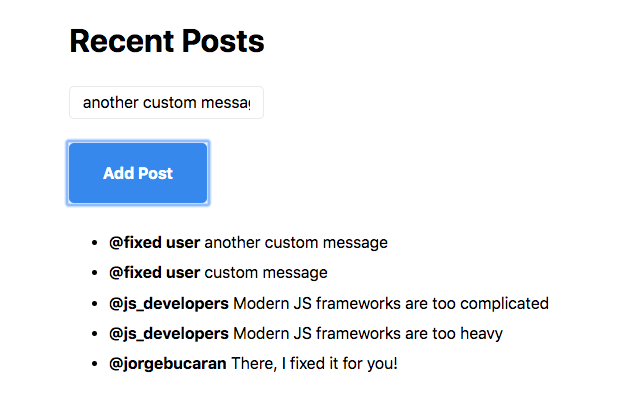
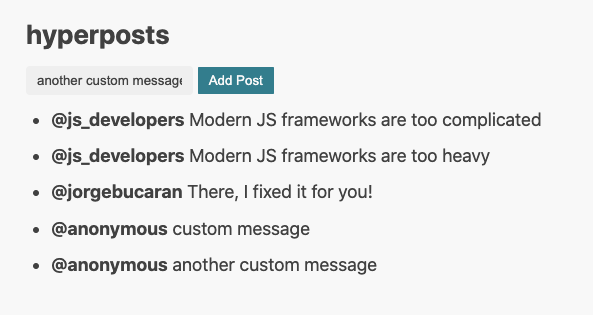
ch5 updated

diff --git a/manuscript/ch5.md b/manuscript/ch5.md
@@ -6,10 +6,12 @@
 
 Add an input field to change the text:
 ```js
-<h1>Recent Posts</h1>
+<h4>hyperposts</h4>
 <input type="text" autofocus />
+${" "}
 <button onclick=${AddPost}>Add Post</button>
 ```
+We added a whitespace between the input and the button to make the UI nicer.
 
 When you start typing text into the input, your state and view will get out of sync. What you're typing is not
 reflected in the state object.
@@ -59,14 +61,14 @@ As mentioned before, it's all about transferable skills.
 
 The following figure shows the updated conceptual model of Hyperapp actions with the extra event attribute:
 
-![Figure: Action is a pure function of state and event](images/action-with-event.jpg)
+![Figure: Action is a pure function of state and event](images/action-with-event.png)
 
 Try to add a new post with some text. It should still not work. You need to copy the `currentPostText` to the newly added post.
 
 ```js
 const AddPost = (state) => {
-  const newPost = { username: "anonymous", body: state.currentPostText };
-  return { ...state, posts: [newPost, ...state.posts] };
+    const newPost = { username: "anonymous", body: state.currentPostText };
+    return { ...state, posts: [...state.posts, newPost] };
 };
 ```
 
@@ -85,7 +87,7 @@ All event based actions will follow a similar pattern:
 ```
 Action code would be cleaner if it didn't know about the DOM Event API.
 
-Create a **selector function** to extract only a part of the event you care about:
+Create a **custom payload filter** to extract only a part of the event you care about:
 ```js
 const targetValue = event => event.target.value;
 ```
@@ -107,16 +109,18 @@ const UpdatePostText = (state, currentPostText) => ({
     currentPostText
 });
 ```
-Shape the second argument of your action inside the input handler. 
+Shape the second argument of your action using the following snippet: 
 ```js
-<input type="text" oninput=${[UpdatePostText, targetValue]} value=${state.currentPostText} autofocus />
+const withFilter = filter => action => (state, event) => action(state, filter(event));
+const withTargetValue = withFilter(targetValue);
+<input type="text" oninput=${withTargetValue(UpdatePostText)} value=${state.currentPostText} autofocus />
 ```
-Hyperapp will apply the selector from the two-argument array before invoking your action with its result.
-In our case `targetValue` is applied to DOM event before `UpdatePostText` is called.
+`withFilter` is a curried function that can be first configured with a given filter e.g. `targetValue` and then
+applied to a given action e.g. `UpdatePostText`.  It returns a new action that applied filter to the original event.
 
-If you keep using the `[action, selector]` array over and over, consider creating an alias:
+If you keep using `withTargetValue(UpdatePostText)` over and over, consider creating an alias:
 ```js
-const UpdatePostTextAction = [UpdatePostText, targetValue];
+const UpdatePostTextAction = withTargetValue(UpdatePostText);
 ```
 That you can pass directly:
 ```js
@@ -124,8 +128,6 @@ That you can pass directly:
 ```
 
 ## Exercises
-
-
 
 According to [modern research](https://en.wikipedia.org/wiki/Desirable_difficulty), testing your knowledge is essential for learning. 
 If you want to get the most out of this book, please do the exercises. They are not optional.
@@ -145,7 +147,7 @@ When you're done, compare with the solution below.
 ```js
 const AddPost = (state) => {
   const newPost = { username: "anonymous", body: state.currentPostText };
-  return { ...state, currentPostText: "", posts: [newPost, ...state.posts] };
+  return { ...state, currentPostText: "", posts: [...state.posts, newPost] };
 };
 ```
 
@@ -163,7 +165,7 @@ The application should ignore **Add Post** clicks when the text is empty.
 const AddPost = (state) => {
   if(state.currentPostText.trim()) {
       const newPost = { username: "anonymous", body: state.currentPostText };
-      return { ...state, currentPostText: "", posts: [newPost, ...state.posts] };
+      return { ...state, currentPostText: "", posts: [...state.posts, newPost] };
   }  else {
       return state;
   }
